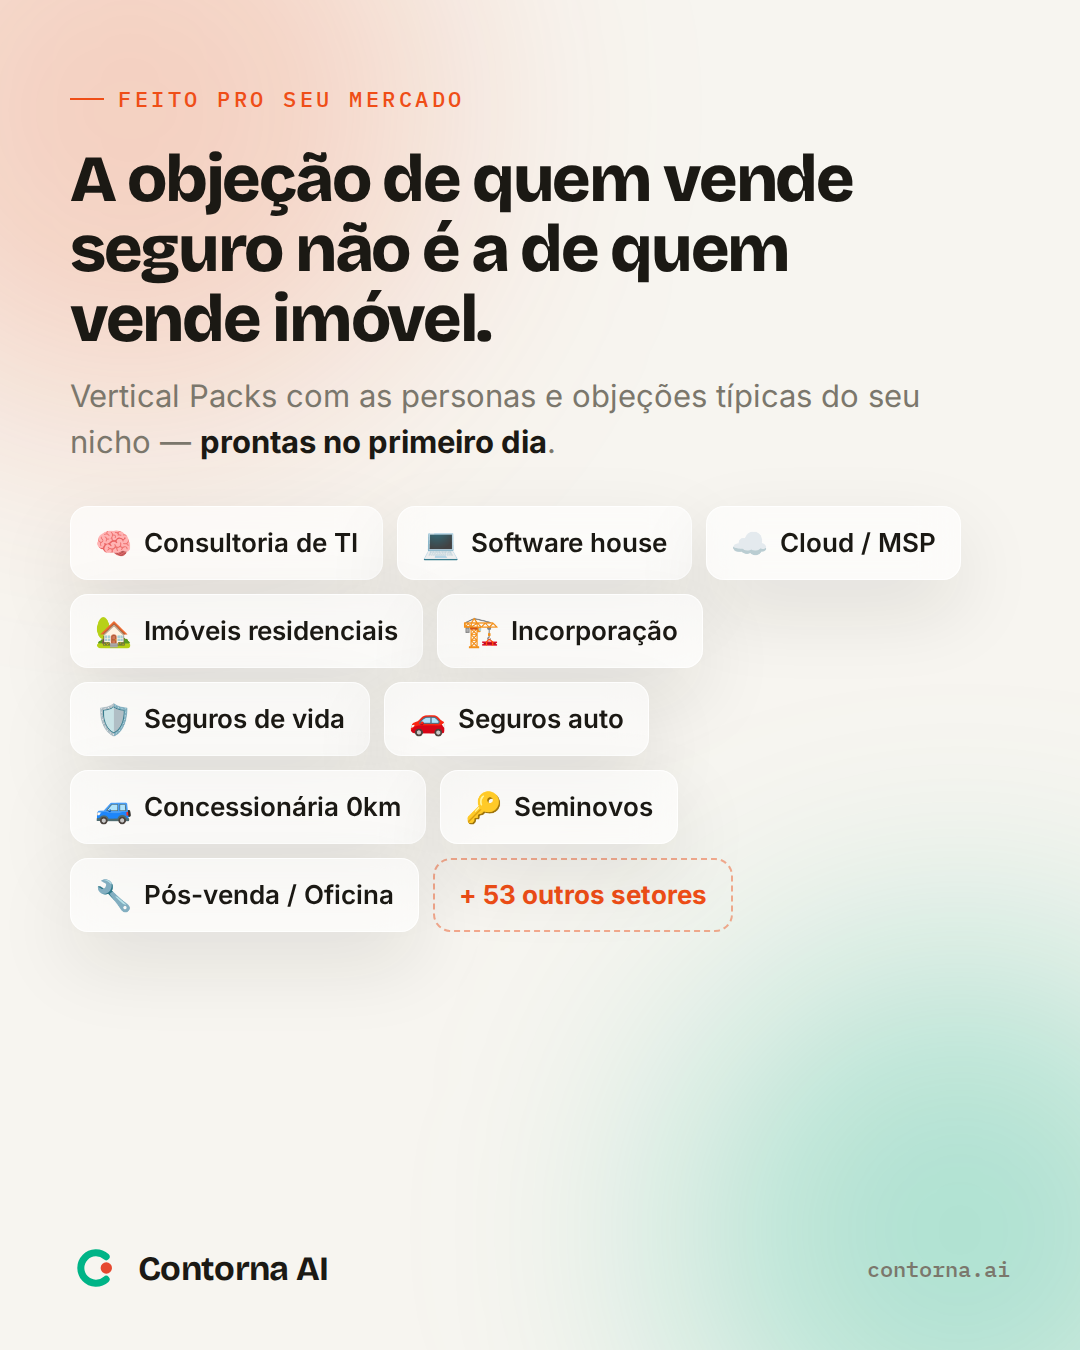
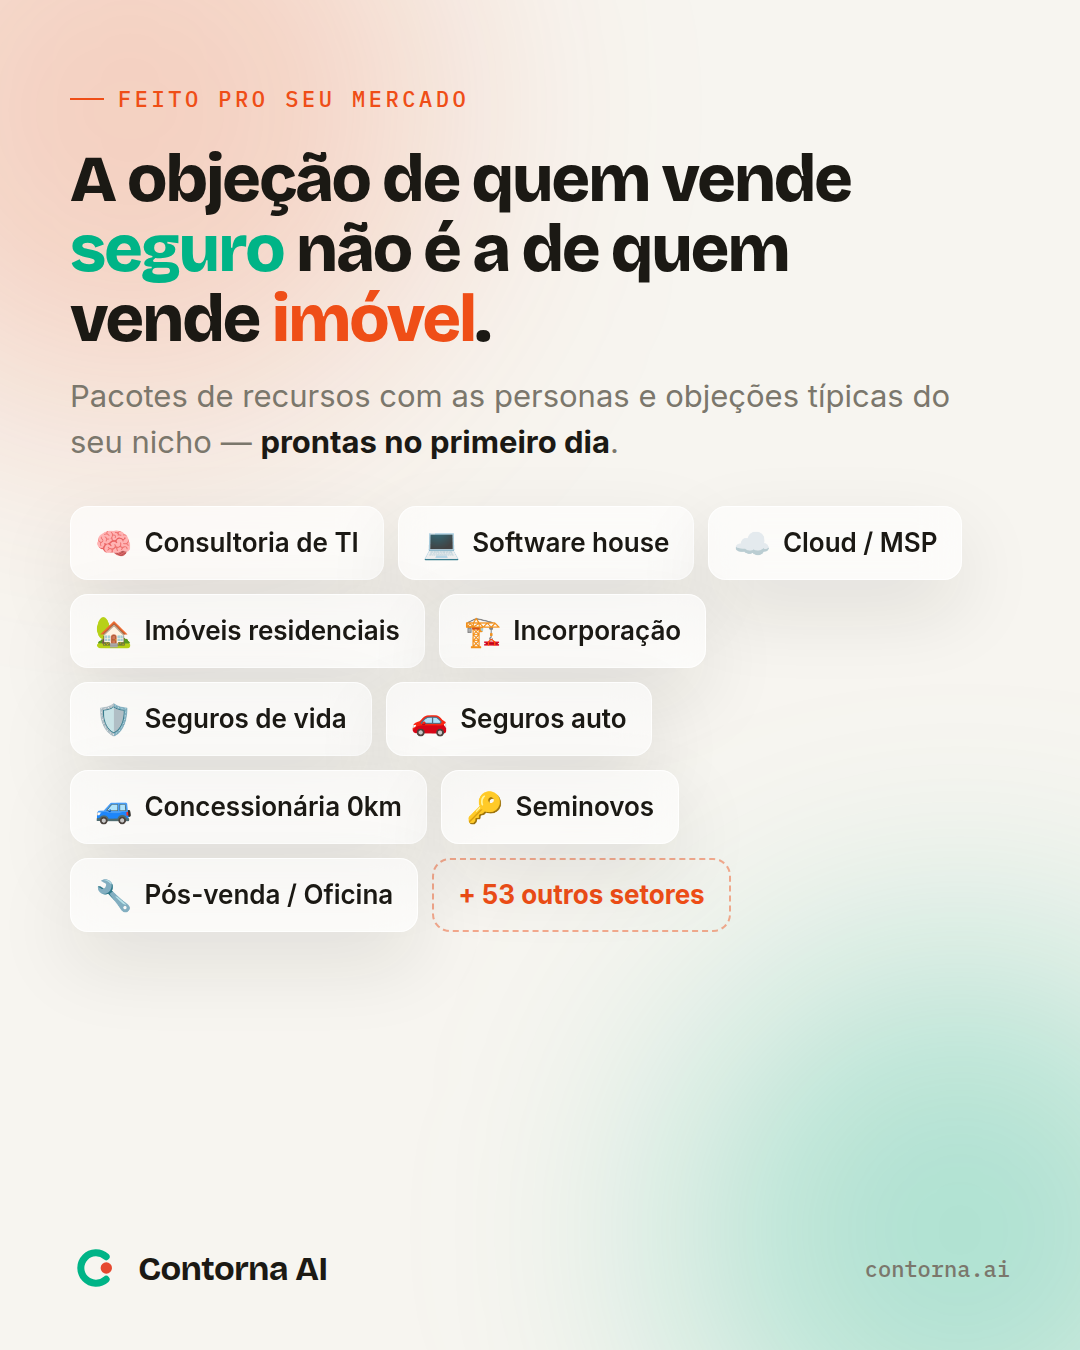
Ajusta post 4 do Instagram: cores no título e novo texto do subtítulo
- "seguro" em verde (--win) e "imóvel" em laranja (--accent) no título,
  seguindo a identidade visual da marca
- Troca "Vertical Packs" por "Pacotes de recursos" no subtítulo
- Regenera post4-mercados.png (feed) e story4-mercados.png (stories)
  a partir do HTML atualizado

diff --git a/marketing/instagram/src/artes.html b/marketing/instagram/src/artes.html
@@ -250,8 +250,8 @@
   <div class="blob g" style="width:560px;height:560px;bottom:-160px;right:-160px;"></div>
   <div class="inner">
     <span class="eyebrow">Feito pro seu mercado</span>
-    <h1 class="display">A objeção de quem vende<br>seguro não é a de quem<br>vende imóvel.</h1>
-    <p class="sub">Vertical Packs com as personas e objeções típicas do seu nicho — <b style="color:var(--text)">prontas no primeiro dia</b>.</p>
+    <h1 class="display">A objeção de quem vende<br><span style="color:var(--win)">seguro</span> não é a de quem<br>vende <span style="color:var(--accent)">imóvel</span>.</h1>
+    <p class="sub">Pacotes de recursos com as personas e objeções típicas do seu nicho — <b style="color:var(--text)">prontas no primeiro dia</b>.</p>
     <div class="grid">
       <div class="pack glass"><span>🧠</span><span>Consultoria de TI</span></div>
       <div class="pack glass"><span>💻</span><span>Software house</span></div>

diff --git a/marketing/instagram/src/stories.html b/marketing/instagram/src/stories.html
@@ -246,8 +246,8 @@
   <div class="blob g" style="width:640px;height:640px;bottom:-160px;right:-200px;"></div>
   <div class="z">
     <span class="eyebrow">Feito pro seu mercado</span>
-    <h1 class="display">A objeção de quem<br>vende seguro não é<br>a de quem vende<br>imóvel.</h1>
-    <p class="sub">Vertical Packs com as personas e objeções típicas do seu nicho — <b>prontas no primeiro dia</b>.</p>
+    <h1 class="display">A objeção de quem<br>vende <span style="color:var(--win)">seguro</span> não é<br>a de quem vende<br><span style="color:var(--accent)">imóvel</span>.</h1>
+    <p class="sub">Pacotes de recursos com as personas e objeções típicas do seu nicho — <b>prontas no primeiro dia</b>.</p>
     <div class="grid">
       <div class="pack glass"><span>🧠</span><span>Consultoria de TI</span></div>
       <div class="pack glass"><span>💻</span><span>Software house</span></div>
